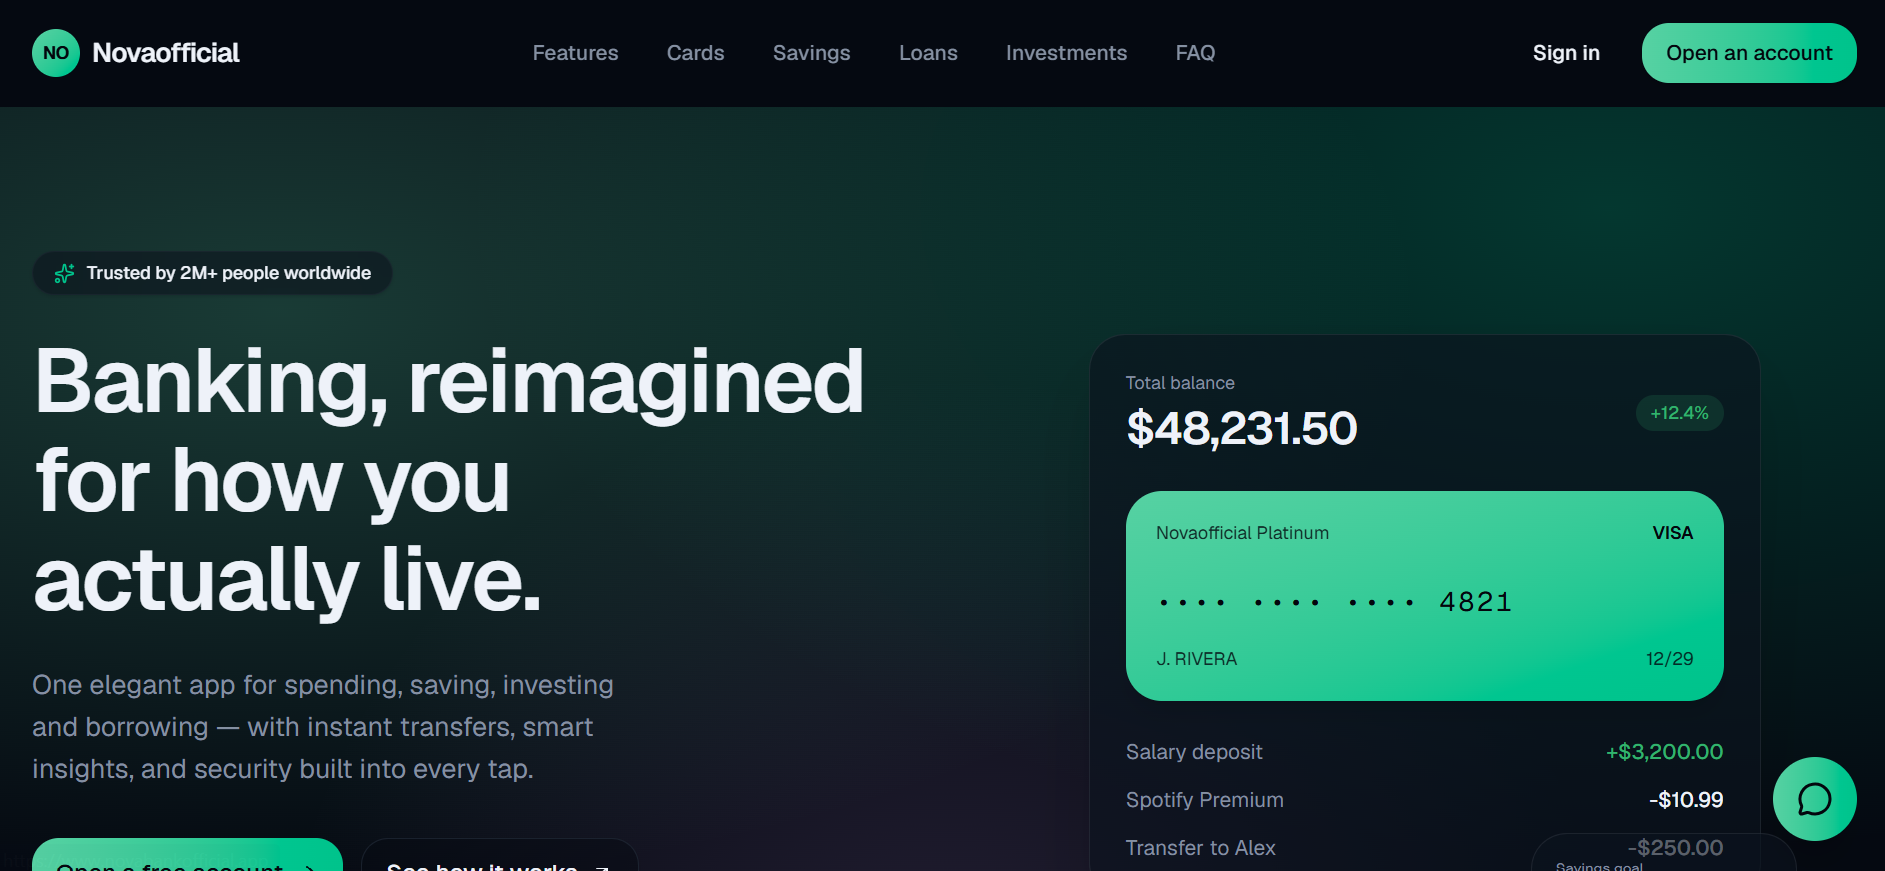
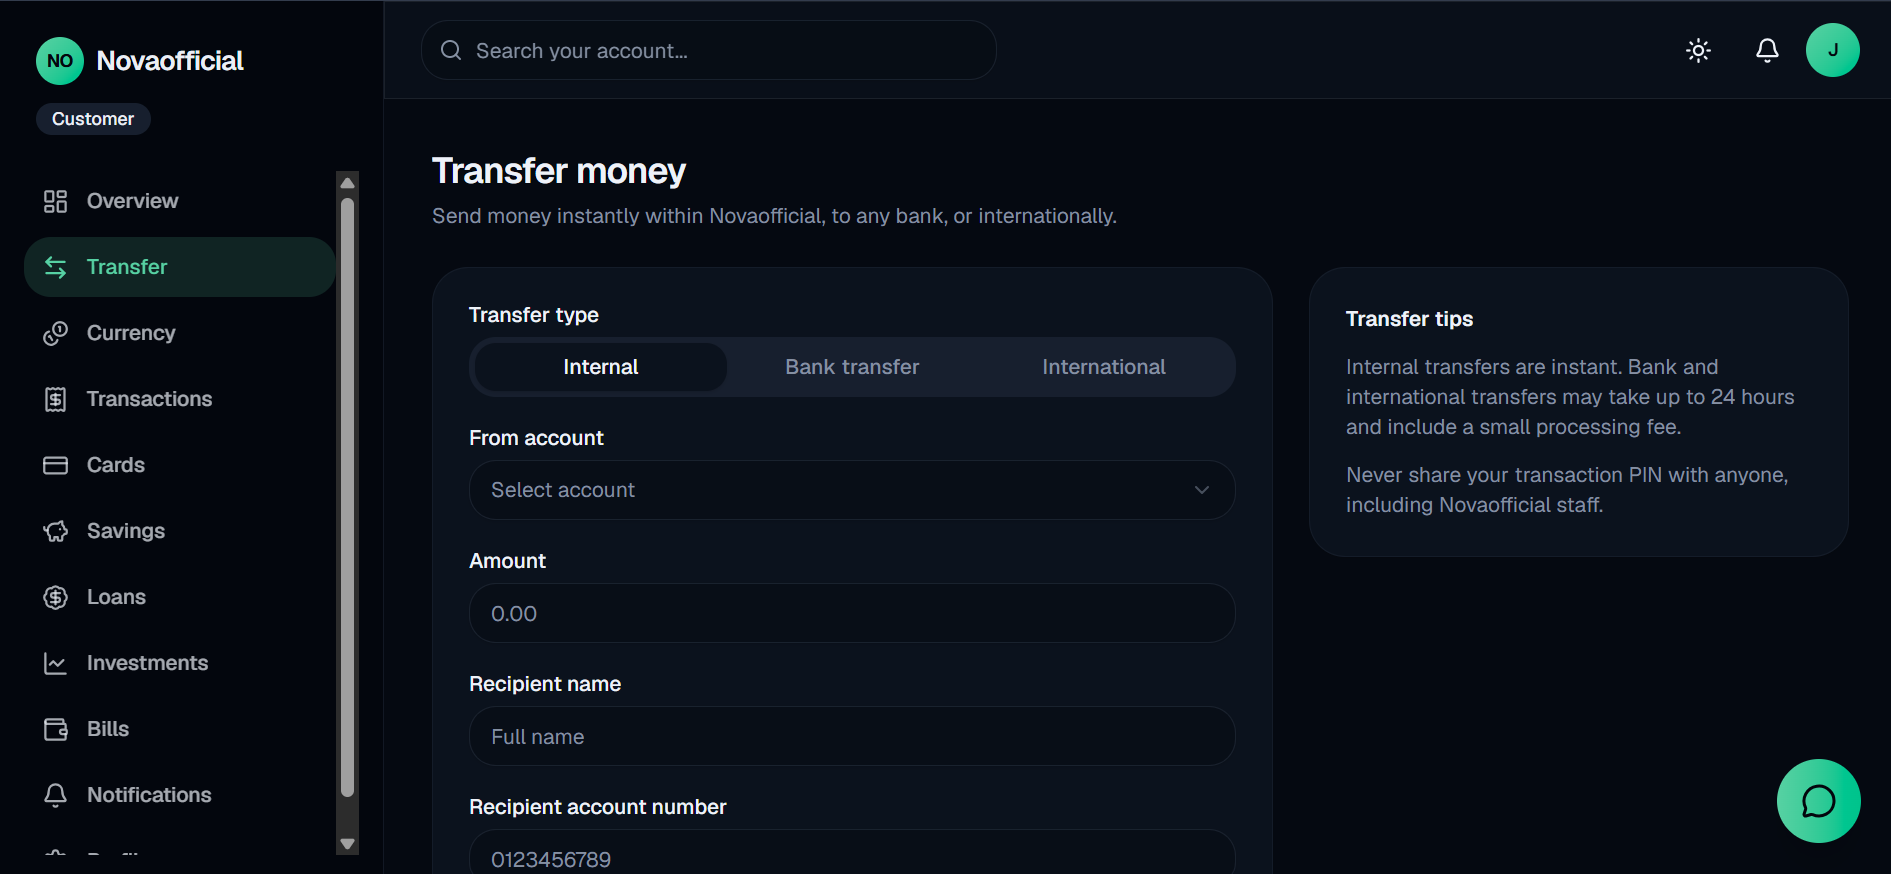
Add real product screenshots to the Banking Platform service
ServiceVisual now renders a real image (with the existing browser-chrome
frame) when given an image path, falling back to the icon/gradient
placeholder otherwise. Also fixed the uploaded landing/transfer files,
which had been swapped.

diff --git a/src/components/marketing/service-visual.tsx b/src/components/marketing/service-visual.tsx
@@ -1,3 +1,4 @@
+import Image from "next/image";
 import {
   Landmark,
   Plane,
@@ -41,7 +42,40 @@ interface ServiceVisualProps {
   label?: string;
 }
 
+function VisualChrome({ label }: { label?: string }) {
+  return (
+    <div className="relative z-10 flex shrink-0 items-center gap-1.5 border-b border-white/10 bg-black/20 px-4 py-2.5 backdrop-blur-sm">
+      <span className="size-2.5 rounded-full bg-red-400/70" />
+      <span className="size-2.5 rounded-full bg-yellow-400/70" />
+      <span className="size-2.5 rounded-full bg-green-400/70" />
+      {label && <span className="ml-3 truncate text-[11px] text-white/40">{label}</span>}
+    </div>
+  );
+}
+
 export function ServiceVisual({ variant, className, chrome = true, label }: ServiceVisualProps) {
+  if (variant.startsWith("/")) {
+    return (
+      <div
+        className={cn(
+          "relative flex flex-col overflow-hidden rounded-2xl border border-white/10 bg-[#0c0c14]",
+          className,
+        )}
+      >
+        {chrome && <VisualChrome label={label} />}
+        <div className="relative flex-1">
+          <Image
+            src={variant}
+            alt={label ?? "Service preview"}
+            fill
+            sizes="(min-width: 1024px) 50vw, 100vw"
+            className="object-cover object-left-top"
+          />
+        </div>
+      </div>
+    );
+  }
+
   const key = variant.split("-")[0];
   const Icon = ICONS[key] ?? Sparkles;
   const gradient = GRADIENTS[key] ?? GRADIENTS.ai;
@@ -64,16 +98,7 @@ export function ServiceVisual({ variant, className, chrome = true, label }: Serv
       <div className="absolute -top-16 -right-16 size-56 rounded-full bg-white/10 blur-3xl animate-glow" />
       <div className="absolute -bottom-20 -left-10 size-64 rounded-full bg-white/5 blur-3xl" />
 
-      {chrome && (
-        <div className="relative flex items-center gap-1.5 border-b border-white/10 bg-black/20 px-4 py-2.5 backdrop-blur-sm">
-          <span className="size-2.5 rounded-full bg-red-400/70" />
-          <span className="size-2.5 rounded-full bg-yellow-400/70" />
-          <span className="size-2.5 rounded-full bg-green-400/70" />
-          {label && (
-            <span className="ml-3 truncate text-[11px] text-white/40">{label}</span>
-          )}
-        </div>
-      )}
+      {chrome && <VisualChrome label={label} />}
 
       <div className="relative flex flex-1 items-center justify-center p-10">
         <div className="flex size-20 items-center justify-center rounded-2xl bg-white/10 shadow-2xl backdrop-blur-md ring-1 ring-white/20">

diff --git a/src/app/services/[slug]/page.tsx b/src/app/services/[slug]/page.tsx
@@ -4,7 +4,7 @@ import type { Metadata } from "next";
 import { Check, ChevronRight, Star } from "lucide-react";
 
 import { services, getServiceBySlug } from "@/lib/data/services";
-import { formatPrice } from "@/lib/utils";
+import { cn, formatPrice } from "@/lib/utils";
 import { Badge } from "@/components/ui/badge";
 import { Avatar, AvatarFallback } from "@/components/ui/avatar";
 import {
@@ -17,6 +17,12 @@ import { ServiceVisual } from "@/components/marketing/service-visual";
 import { BuyNowButton } from "@/components/marketing/buy-now-button";
 import { WishlistButton } from "@/components/marketing/wishlist-button";
 import { ServiceCard } from "@/components/marketing/service-card";
+
+function screenshotLabel(shot: string) {
+  if (!shot.startsWith("/")) return shot;
+  const name = (shot.split("/").pop() ?? shot).replace(/\.[^.]+$/, "");
+  return name.charAt(0).toUpperCase() + name.slice(1);
+}
 
 export function generateStaticParams() {
   return services.map((s) => ({ slug: s.slug }));
@@ -111,9 +117,14 @@ export default async function ServiceDetailPage({
       {/* Screenshots */}
       <section className="mx-auto max-w-7xl px-4 py-16 sm:px-6 lg:px-8">
         <h2 className="text-2xl font-semibold tracking-tight">Product screenshots</h2>
-        <div className="mt-6 grid gap-6 sm:grid-cols-3">
+        <div
+          className={cn(
+            "mt-6 grid gap-6",
+            service.screenshots.length >= 3 ? "sm:grid-cols-3" : "sm:grid-cols-2",
+          )}
+        >
           {service.screenshots.map((shot) => (
-            <ServiceVisual key={shot} variant={shot} className="aspect-video" label={shot} />
+            <ServiceVisual key={shot} variant={shot} className="aspect-video" label={screenshotLabel(shot)} />
           ))}
         </div>
       </section>

diff --git a/src/lib/data/services.ts b/src/lib/data/services.ts
@@ -63,8 +63,8 @@ export const services: Service[] = [
     tagline: "Full-stack digital banking, built for scale and compliance.",
     description:
       "A production-grade digital banking platform with accounts, cards, transfers, and compliance tooling baked in — the same foundation neobanks use to launch in weeks, not years.",
-    heroImage: "banking",
-    screenshots: ["banking-dashboard", "banking-cards", "banking-transfers"],
+    heroImage: "/services/banking/landing.png",
+    screenshots: ["/services/banking/overview.png", "/services/banking/transfer.png"],
     features: [
       "Multi-currency accounts & ledgers",
       "Virtual & physical card issuance",
